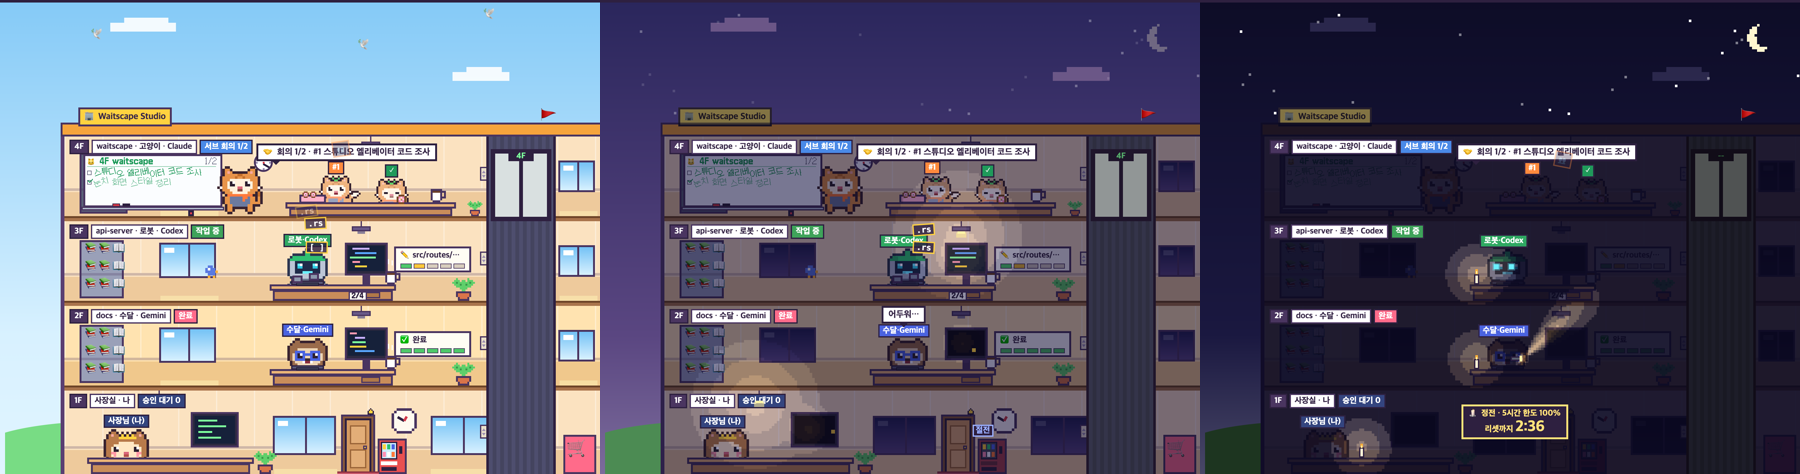
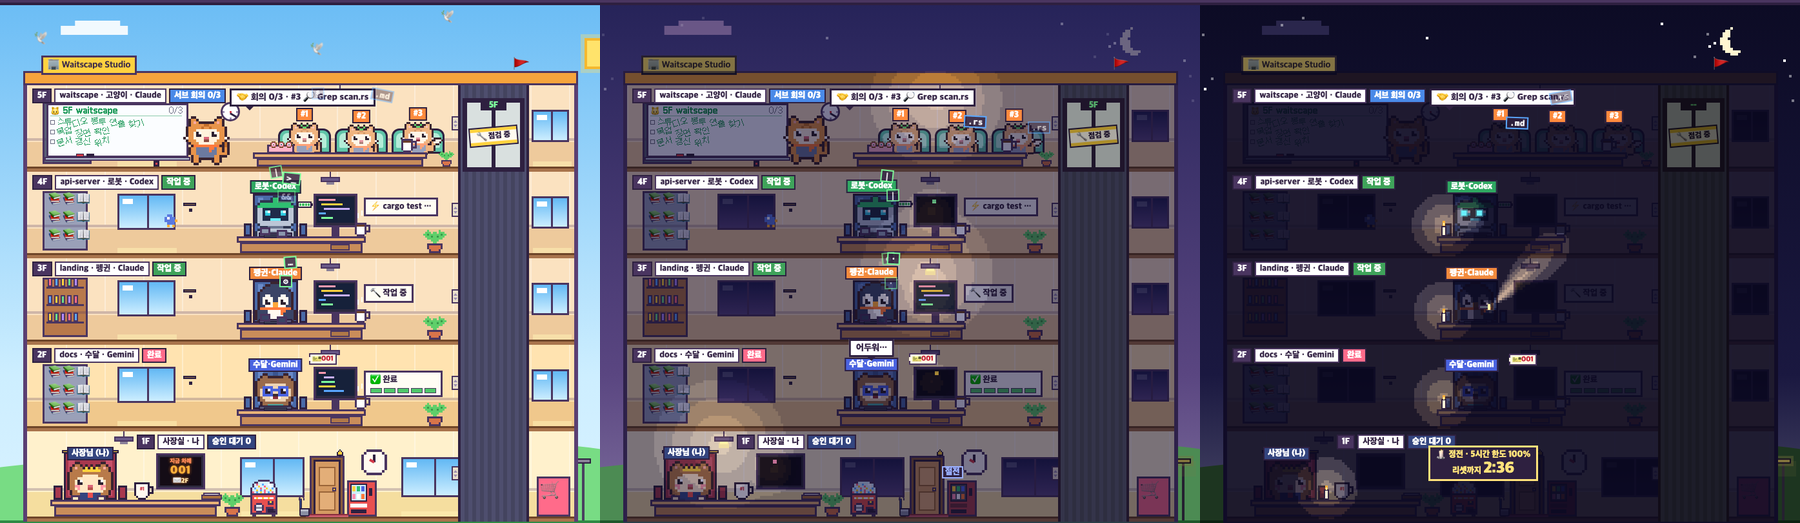
README: 0.9.1 기준으로 그림·글 맞추기 (#168)
그림 6개(studio·mini·nunchi GIF, details·power·modes)를 지금 화면으로 다시 찍었습니다.
의자, 벽 옷걸이 겉옷, 미니 보기 깨알 연출, 간식·회식, AI가 쓰는 보드를 글에 보탰습니다(한국어·영어).

diff --git a/README.md b/README.md
@@ -19,7 +19,7 @@
 Waitscape는 Claude Code·Codex 같은 AI 코딩 에이전트의 세션을 **도트 사무실**로 보여 주는 데스크톱 앱이에요. 세션 하나가 직원 한 명이 되어 자기 층에서 일하고, 질문이 생기면 엘리베이터를 타고 1층 사장님(나)에게 물으러 와요. 일이 끝나면 보고하러 오고요. 터미널을 계속 들여다보지 않아도 지금 누가 무엇을 하고, 누가 나를 기다리는지 한눈에 보여요.
 
 <div align="center">
-<img src="docs/assets/studio.gif" width="860" alt="스튜디오 모드 — 층마다 일하는 동물 직원, 질문하러 엘리베이터를 타는 펭귄, 큰 일을 끝낸 로봇">
+<img src="docs/assets/studio.gif" width="860" alt="스튜디오 모드 — 의자에 앉아 일하는 동물 직원, 질문하러 엘리베이터를 타는 펭귄, 결과 봉투를 건네는 회의실 아기, 큰 일을 끝낸 로봇">
 <br><sub>화면의 세션·프로젝트는 모두 가짜 데이터예요.</sub>
 </div>
 
@@ -42,7 +42,7 @@ Waitscape는 Claude Code·Codex 같은 AI 코딩 에이전트의 세션을 **도
 <td width="44%" align="center"><img src="docs/assets/mini.gif" width="300" alt="미니 보기 — 질문 클로즈업, 답변 후 복귀, 옥상 축하, 사장실 보고"></td>
 <td width="56%" valign="middle">
 <h3>📌 미니 보기</h3>
-다른 창 위에 늘 떠 있는 작은 "로비 카메라"예요. 큰 창은 숨고 이 작은 창만 남아요. 평소엔 사장실을 비추다가, 일이 생기면 그 층으로 가서 담고 돌아와요. 질문이면 클로즈업과 하단 자막, 큰 일을 끝내면 옥상에서 폭죽을 터뜨리고 사장실로 보고하러 와요. 서브에이전트가 생기면 엘리베이터를 따라 회의실로 가요. 휠이나 ↑↓로 층을 직접 둘러볼 수도 있어요.
+다른 창 위에 늘 떠 있는 작은 "로비 카메라"예요. 큰 창은 숨고 이 작은 창만 남아요. 평소엔 사장실을 비추다가, 일이 생기면 그 층으로 가서 담고 돌아와요. 질문이면 클로즈업과 하단 자막, 큰 일을 끝내면 옥상에서 폭죽을 터뜨리고 사장실로 보고하러 와요. 서브에이전트가 생기면 엘리베이터를 따라 회의실로 가요. 휠이나 ↑↓로 층을 직접 둘러볼 수도 있어요. 의자에 앉은 직원, 졸기·책상 소품·야간 경비 같은 깨알 연출도 미니 보기에서 그대로 보여요.
 </td>
 </tr>
 <tr>
@@ -69,8 +69,8 @@ Waitscape는 Claude Code·Codex 같은 AI 코딩 에이전트의 세션을 **도
 <tr>
 <td colspan="2" valign="middle">
 <h3>🔍 깨알 디테일</h3>
-스튜디오를 가만히 보면 작은 게 계속 보여요. 오래 일하면 빈 커피잔이 쌓이고, 벽 옷걸이에 겉옷이 걸리고, 컨텍스트가 차면 서류 더미가 생겨요. 도구를 100·500·1000번 쓸 때마다 모니터에 깃발이 솟고, 로봇은 배터리가 닳으면 케이블을 꽂고 일해요. 질문하러 간 직원은 1분 넘게 기다리면 발을 동동 구르고, 금요일 저녁엔 다들 하와이안 셔츠에 꽃을 꽂아요. 창틀엔 비둘기가 앉고, 밤엔 경비 고양이가 순찰을 돌아요. 사장님 머그컵 문구는 누를 때마다 바뀌고, 설치한 날이 돌아오면 케이크가 놓여요.
-<p align="center"><img src="docs/assets/details.png" width="860" alt="깨알 디테일 — 로봇 배터리와 충전 케이블, 의자에 걸린 겉옷, 서류 더미, 빈 커피잔, 도구 500 깃발, 연속 출근 달력, 금요일 히비스커스, 1주년 케이크와 사장님 머그컵"></p>
+스튜디오를 가만히 보면 작은 게 계속 보여요. 사장님은 빨간 사장 의자, 직원은 파란 사무용 의자, 회의실 아기는 민트 회의 의자에 앉아요. 오래 일하면 빈 커피잔이 쌓이고, 벽 옷걸이에 겉옷이 걸리고, 컨텍스트가 차면 서류 더미가 생겨요. 도구를 100·500·1000번 쓸 때마다 모니터에 깃발이 솟고, 로봇은 배터리가 닳으면 케이블을 꽂고 일해요. 질문하러 간 직원은 1분 넘게 기다리면 발을 동동 구르고, 금요일 저녁엔 다들 하와이안 셔츠에 꽃을 꽂아요. 창틀엔 비둘기가 앉고, 밤엔 경비 고양이가 순찰을 돌아요. 사장님 머그컵 문구는 누를 때마다 바뀌고, 설치한 날이 돌아오면 케이크가 놓여요.
+<p align="center"><img src="docs/assets/details.png" width="860" alt="깨알 디테일 — 의자에 앉은 직원, 로봇 배터리와 충전 케이블, 벽 옷걸이에 건 겉옷, 서류 더미, 빈 커피잔, 도구 500 깃발, 연속 출근 달력, 금요일 히비스커스, 1주년 케이크와 사장님 머그컵"></p>
 </td>
 </tr>
 </table>
@@ -131,11 +131,13 @@ Waitscape는 Claude Code·Codex 같은 AI 코딩 에이전트의 세션을 **도
 - **📋 퇴근 일보** — 오후에 다들 45분쯤 조용해지면 사장님이 "일보 나왔어요!" 하고 종이를 흔들어요. 오늘 끝낸 일, 작업 시간, MVP를 발표하고 공유 카드(PNG)를 만들어 줘요.
 - **⚡ 빠른 답장** — 직원 질문에 1분 안에 답하면 "👍 빠르다!" 하며 자금 보너스를 줘요. 이어서 빨리 답하면 🔗 콤보로 더 커져요.
 - **🎨 층 꾸미기** — 일을 마치면 모이는 자금으로 소품을 사서 프로젝트 층을 꾸며요. 동물마다 좋아하는 소품이 있어요. 결제는 없어요.
+- **🍩 간식·🍖 회식** — 🎨 꾸미기 판에서 층을 고르면 그 층 직원에게 ☕ 커피·🍩 도넛·🍕 피자·🍰 케이크를 사 줄 수 있어요(직원마다 하루 2개). 책상에 놓인 간식을 몇 번에 나눠 먹어요. 저녁에는 📋 퇴근 일보에서 다 같이 옥상 바베큐 회식을 갈 수 있고, 다음 날 1층에 회식 사진이 걸려요.
 - **🎰 캡슐 뽑기** — 1층 뽑기 기계에 자금을 넣고 손잡이를 돌리면 캡슐이 굴러 나와 톡 열려요. 직원 액세서리(모자·선글라스…), 책상 소품, 잠긴 동물의 「입사 지원서」가 나오고, 뽑은 건 꾸미기 판의 도감에 모여요. 같은 게 또 나오면 자금 일부를 돌려받아요.
 - **📔 목격 일지** — 깨알 디테일을 처음 본 순간 도장이 찍히고 💰+5를 받아요. 📖 도감의 목격 일지에서 본 장면(29개)과 못 본 장면의 힌트를 볼 수 있어요.
 - **😴 졸음·🍱 점심** — 오래 쉰 직원은 꾸벅꾸벅 졸다가 책상에 엎드려 자고, 일이 다시 오면 ❗ 화들짝 깨요. 낮 12시엔 쉬는 직원이 책상에서 도시락·라면·주먹밥·샌드위치를 먹고 식곤증으로 꾸벅해요.
 - **🎲 랜덤 이벤트** — 가끔 예고 없이 손님이 찾아와요. 🍕 피자 배달부, 📦 「?」 택배 상자, 🐈 길 잃은 아기 고양이, 🖨 고장 난 프린터, 🎈 풍선, 밤에만 드물게 🌠 별똥별. 누르면 작은 자금 보상이 생겨요(하루 5번까지).
 - **서브에이전트 회의** — 서브에이전트가 생기면 아기 동물들이 회의실에 모여 화이트보드에 할 일을 적고 ✓를 쳐요. 일을 끝낸 아기는 결과 봉투를 들고 부모 직원에게 가서 건네요.
+- **✍ AI가 쓰는 보드** — 설정 → AI 연결에서 MCP 보고를 켜면, AI가 자기 계획을 그 층 벽 화이트보드에 적고 끝낸 줄에 ✓를 쳐요. 일이 끝나면 조금 뒤 지워져요.
 - **🔕 회의 모드** — 소리와 깜빡임을 끄고 조용히 보여 줘요. OS의 "움직임 줄이기" 설정도 따라요.
 - **앱 안 업데이트** — 새 버전이 나오면 알려 주고, 눌렀을 때만 서명을 확인한 뒤 설치해요.
 - **한국어·영어** — OS 언어를 따르고, 설정에서 바꿀 수 있어요.

diff --git a/README.en.md b/README.en.md
@@ -19,7 +19,7 @@
 Waitscape is a desktop app that turns your AI coding agent sessions (Claude Code, Codex and more) into a **pixel-art office**. Each session becomes a staff member working on their own floor. When one has a question, they ride the elevator down to the boss (you) on the first floor. When they finish, they come to report. You can see who is doing what, and who is waiting on you, without watching your terminals.
 
 <div align="center">
-<img src="docs/assets/studio.gif" width="860" alt="Studio mode — animal staff working on each floor, a penguin taking the elevator to ask a question, a robot finishing a big job">
+<img src="docs/assets/studio.gif" width="860" alt="Studio mode — animal staff working from their chairs, a penguin taking the elevator to ask a question, a meeting-room baby handing over a result envelope, a robot finishing a big job">
 <br><sub>All sessions and projects shown are fake demo data. The UI in these captures is in Korean; English is built in.</sub>
 </div>
 
@@ -42,7 +42,7 @@ Waitscape is a desktop app that turns your AI coding agent sessions (Claude Code
 <td width="44%" align="center"><img src="docs/assets/mini.gif" width="300" alt="Mini view — question close-up, back to work, rooftop celebration, report to the boss"></td>
 <td width="56%" valign="middle">
 <h3>📌 Mini view</h3>
-A tiny always-on-top "lobby camera". The big window hides and only this small one stays above your other apps. It watches the boss's office, and when something happens it goes to that floor. Questions get a close-up and a caption; big wins get fireworks on the roof and a report to the boss. When subagents spin up, it follows the elevator to the meeting room. Scroll or press ↑↓ to look around the floors yourself.
+A tiny always-on-top "lobby camera". The big window hides and only this small one stays above your other apps. It watches the boss's office, and when something happens it goes to that floor. Questions get a close-up and a caption; big wins get fireworks on the roof and a report to the boss. When subagents spin up, it follows the elevator to the meeting room. Scroll or press ↑↓ to look around the floors yourself. Chairs and tiny details like naps, desk props and the night guard show up in the mini view too.
 </td>
 </tr>
 <tr>
@@ -69,8 +69,8 @@ Besides Studio there's 🐹 Hamster (one hamster per session), 🏟 Scoreboar
 <tr>
 <td colspan="2" valign="middle">
 <h3>🔍 Tiny details</h3>
-Look closer at Studio and small things keep showing up. Empty coffee cups pile up during long sessions, a jacket lands on the chair, and papers stack up as the context fills. Hit 100, 500 and 1,000 tool calls and a flag pops up on the monitor; the robot plugs in a cable when its battery runs out. Staff waiting to ask a question start tapping their feet after a minute, and on Friday evenings everyone switches to Hawaiian shirts and a flower. Pigeons visit the window sills, a guard cat patrols at night, the boss's mug changes its slogan when you click it, and a cake appears on your install anniversary.
-<p align="center"><img src="docs/assets/details.png" width="860" alt="Tiny details — robot battery and charging cable, jacket on the chair, paper stacks, empty coffee cups, 500-tool flags, streak calendars, Friday hibiscus, anniversary cake and the boss's mug"></p>
+Look closer at Studio and small things keep showing up. The boss sits in a red executive chair, the staff in blue office chairs, and the meeting-room babies in mint meeting chairs. Empty coffee cups pile up during long sessions, a jacket goes up on the wall hook, and papers stack up as the context fills. Hit 100, 500 and 1,000 tool calls and a flag pops up on the monitor; the robot plugs in a cable when its battery runs out. Staff waiting to ask a question start tapping their feet after a minute, and on Friday evenings everyone switches to Hawaiian shirts and a flower. Pigeons visit the window sills, a guard cat patrols at night, the boss's mug changes its slogan when you click it, and a cake appears on your install anniversary.
+<p align="center"><img src="docs/assets/details.png" width="860" alt="Tiny details — staff in their chairs, robot battery and charging cable, jacket on the wall hook, paper stacks, empty coffee cups, 500-tool flags, streak calendars, Friday hibiscus, anniversary cake and the boss's mug"></p>
 </td>
 </tr>
 </table>
@@ -131,11 +131,13 @@ With several sessions open, Waitscape lines up the sessions that need your hands
 - **📋 Daily report**: when everything has been quiet for about 45 minutes in the afternoon, the boss waves a sheet: "The report is in!" It announces today's finished work, hours and MVP, then makes a shareable card (PNG).
 - **⚡ Quick replies**: answer a staff question within a minute and they cheer "👍 Quick!" with bonus funds. Keep answering fast for a 🔗 combo.
 - **🎨 Decorate floors**: spend the funds you earn from finished work on props for each project's floor. Each animal has favorites. No real payments.
+- **🍩 Snacks & 🍖 team dinner**: pick a floor on the 🎨 decorate panel to buy its staff ☕ coffee, 🍩 a donut, 🍕 pizza or 🍰 cake (two per staff a day). The snack sits on the desk and gets eaten a few bites at a time. In the evening the 📋 daily report lets everyone go up for a rooftop barbecue, and the next day a dinner photo hangs on 1F.
 - **🎰 Capsule machine**: drop funds into the machine on 1F, turn the handle, and a capsule rolls out and pops open: staff accessories (hats, sunglasses…), desk toys, or a "job application" that unlocks a locked animal. Everything goes into a collection on the decorate panel, and duplicates refund part of the cost.
 - **📔 Sightings**: the first time you spot a tiny detail, it gets stamped and you earn 💰+5. The 📖 dex shows the 29 scenes you've seen and hints for the rest.
 - **😴 Naps & 🍱 lunch**: staff who've been idle a while start nodding off, then sleep on the desk, and jump awake ❗ when work comes back. At noon, idle staff eat a bento, ramen, onigiri or sandwich at their desks, then doze off after lunch.
 - **🎲 Random events**: every now and then someone drops by unannounced: a 🍕 pizza courier, a 📦 mystery box, a 🐈 lost kitten, a 🖨 jammed printer, a 🎈 balloon, or (rarely, at night) a 🌠 shooting star. Click them for a small bonus in funds (up to 5 a day).
 - **Subagent meetings**: subagents show up as baby animals in the meeting room, writing tasks on the whiteboard and checking them off. A baby that finishes carries a result envelope over to its parent.
+- **✍ AI-written boards**: turn on Settings → AI tools → MCP reports and the AI writes its plan on that floor's whiteboard, ticking off lines as it goes. The board is wiped a little after the work ends.
 - **🔕 Meeting mode**: no sound, no flashing. It also follows your OS "reduce motion" setting.
 - **In-app updates**: you get a notice when a new version is out. It downloads only when you click, and verifies the signature before installing.
 - **Korean and English**: follows your OS language, changeable in Settings.
